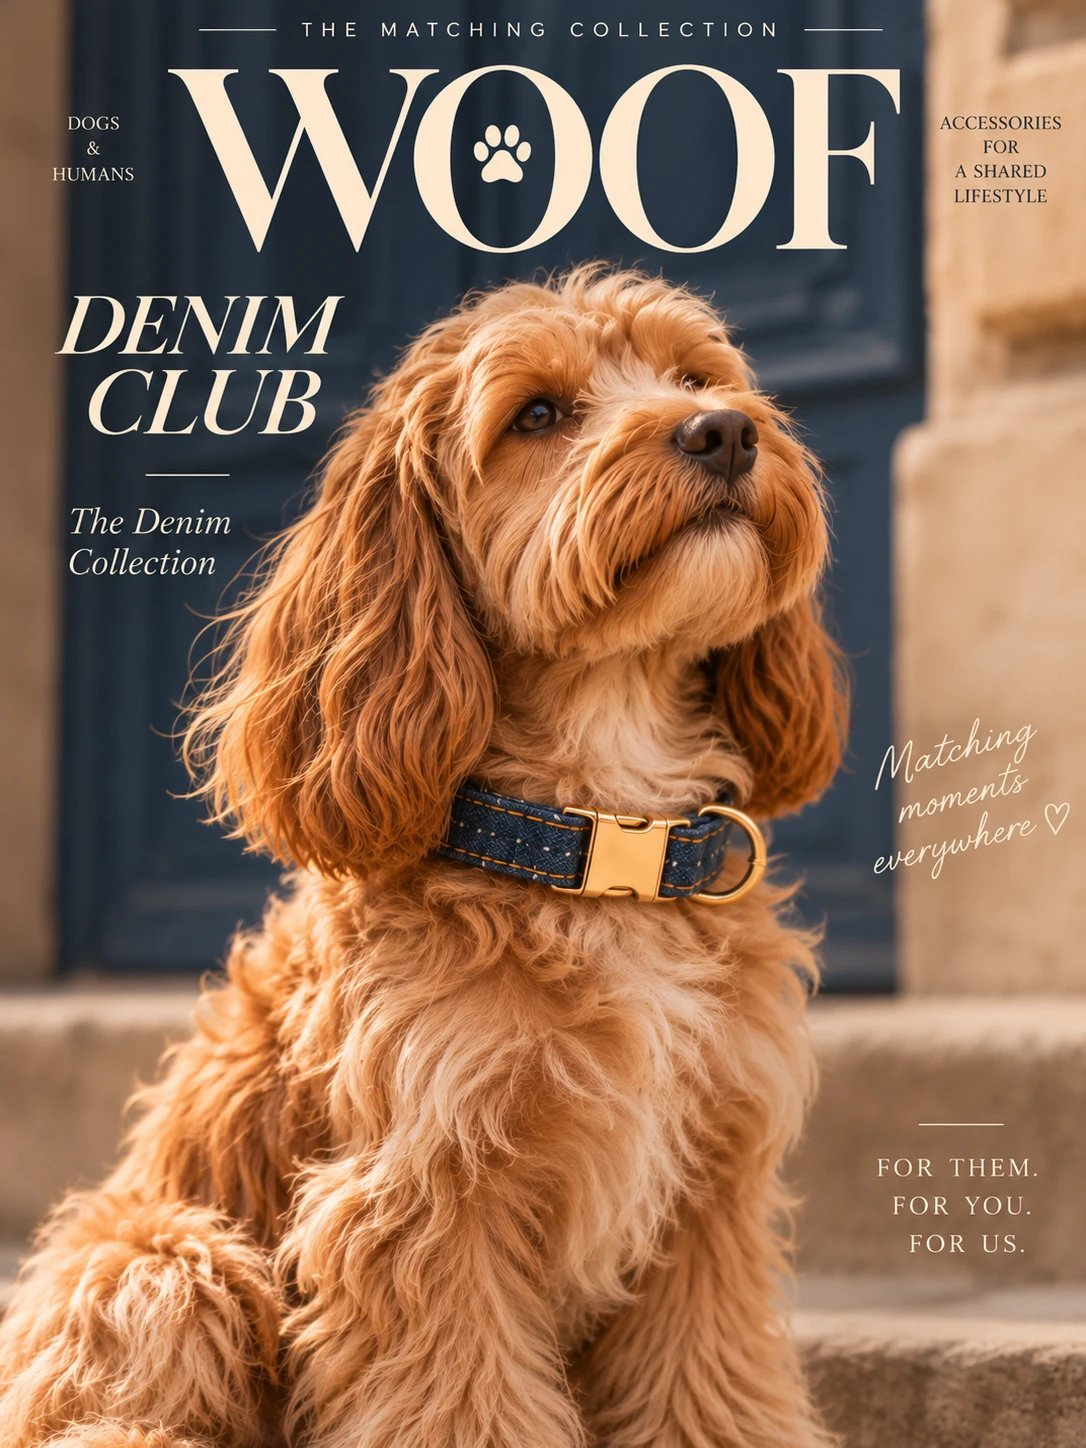
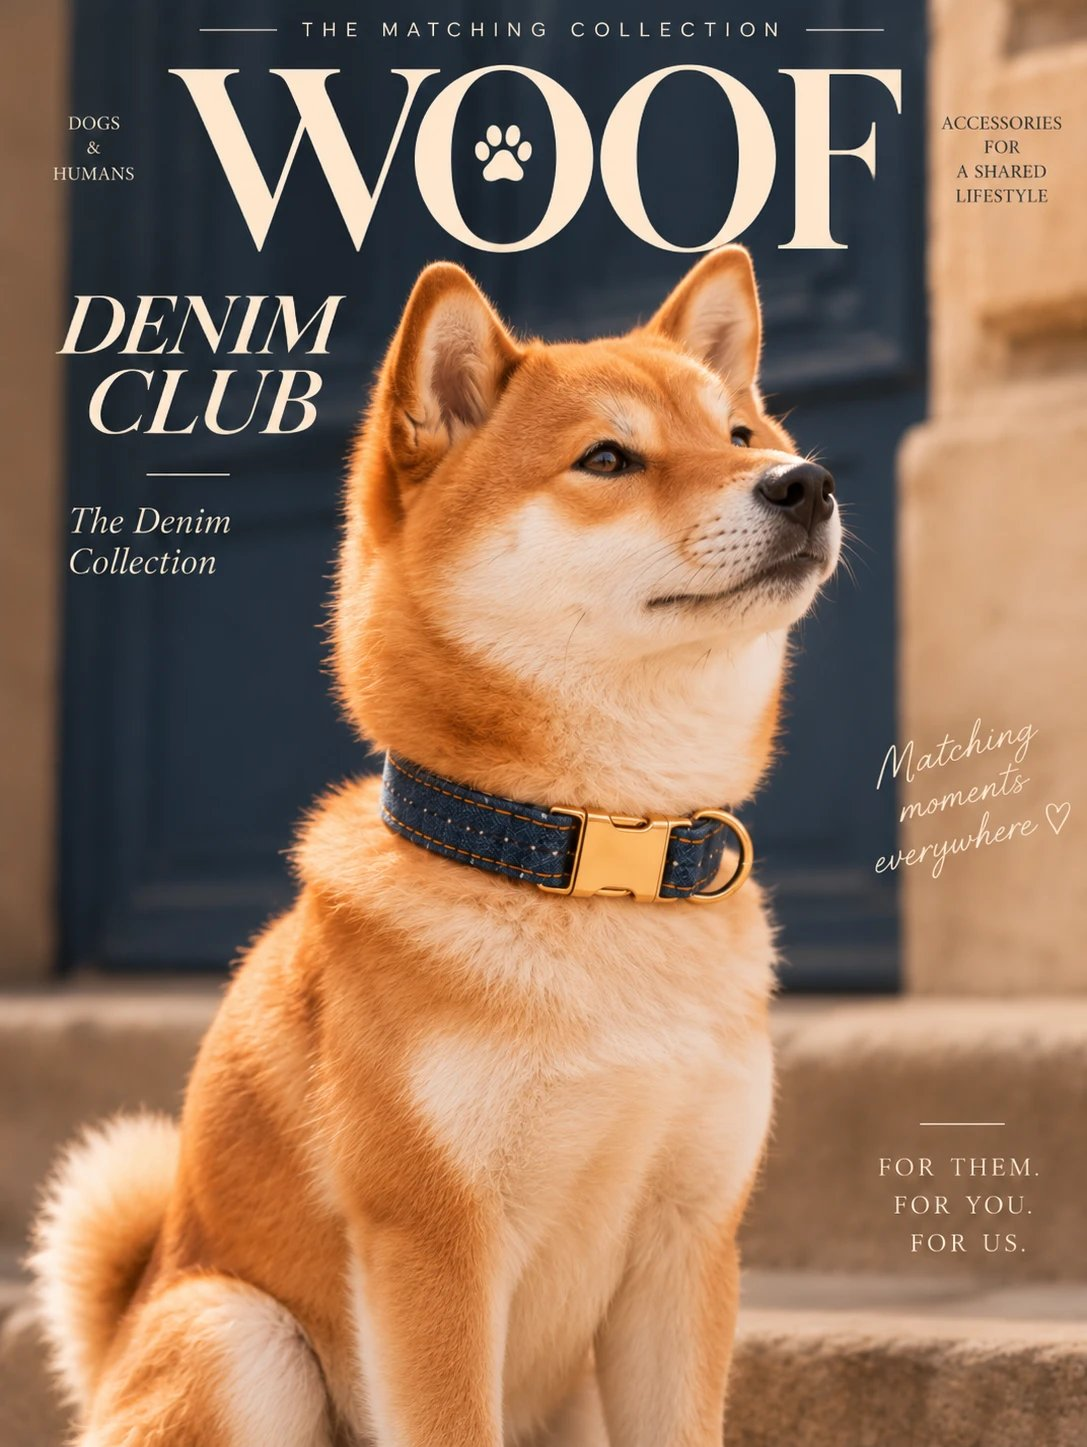
Denim Club: new collection cover
Claude-Session: https://claude.ai/code/session_012166H4GtspBoYRTcCSM5v6

diff --git a/js/products.js b/js/products.js
@@ -46,7 +46,7 @@ window.WOOF_COLLECTIONS = [
     status: "coming-soon",
     setPrice: "€39",
     image: "images/couverture-denim-club.jpg",
-    alt: "WOOF magazine cover: Denim Club — a curly dog wearing a denim collar"
+    alt: "WOOF magazine cover: Denim Club, the denim collection — a Shiba Inu wearing a navy denim collar with golden buckle"
   },
   {
     id: "rodeo-kid",
